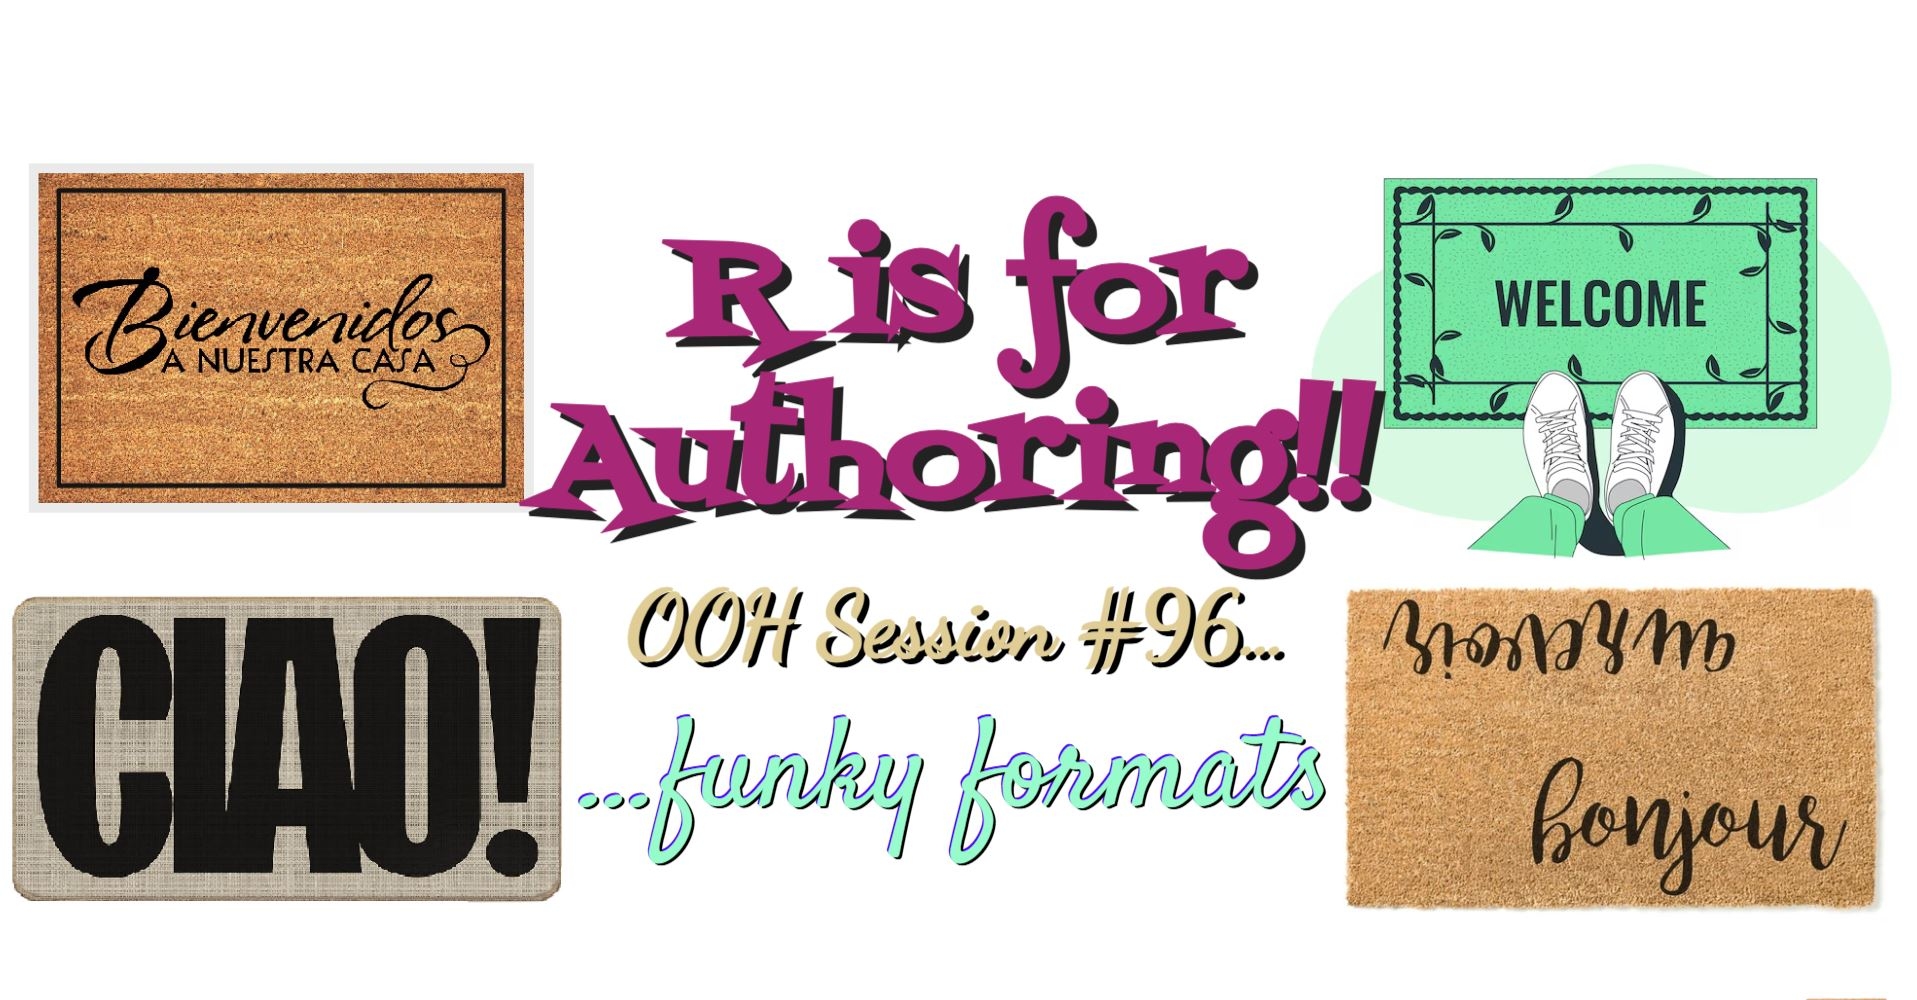
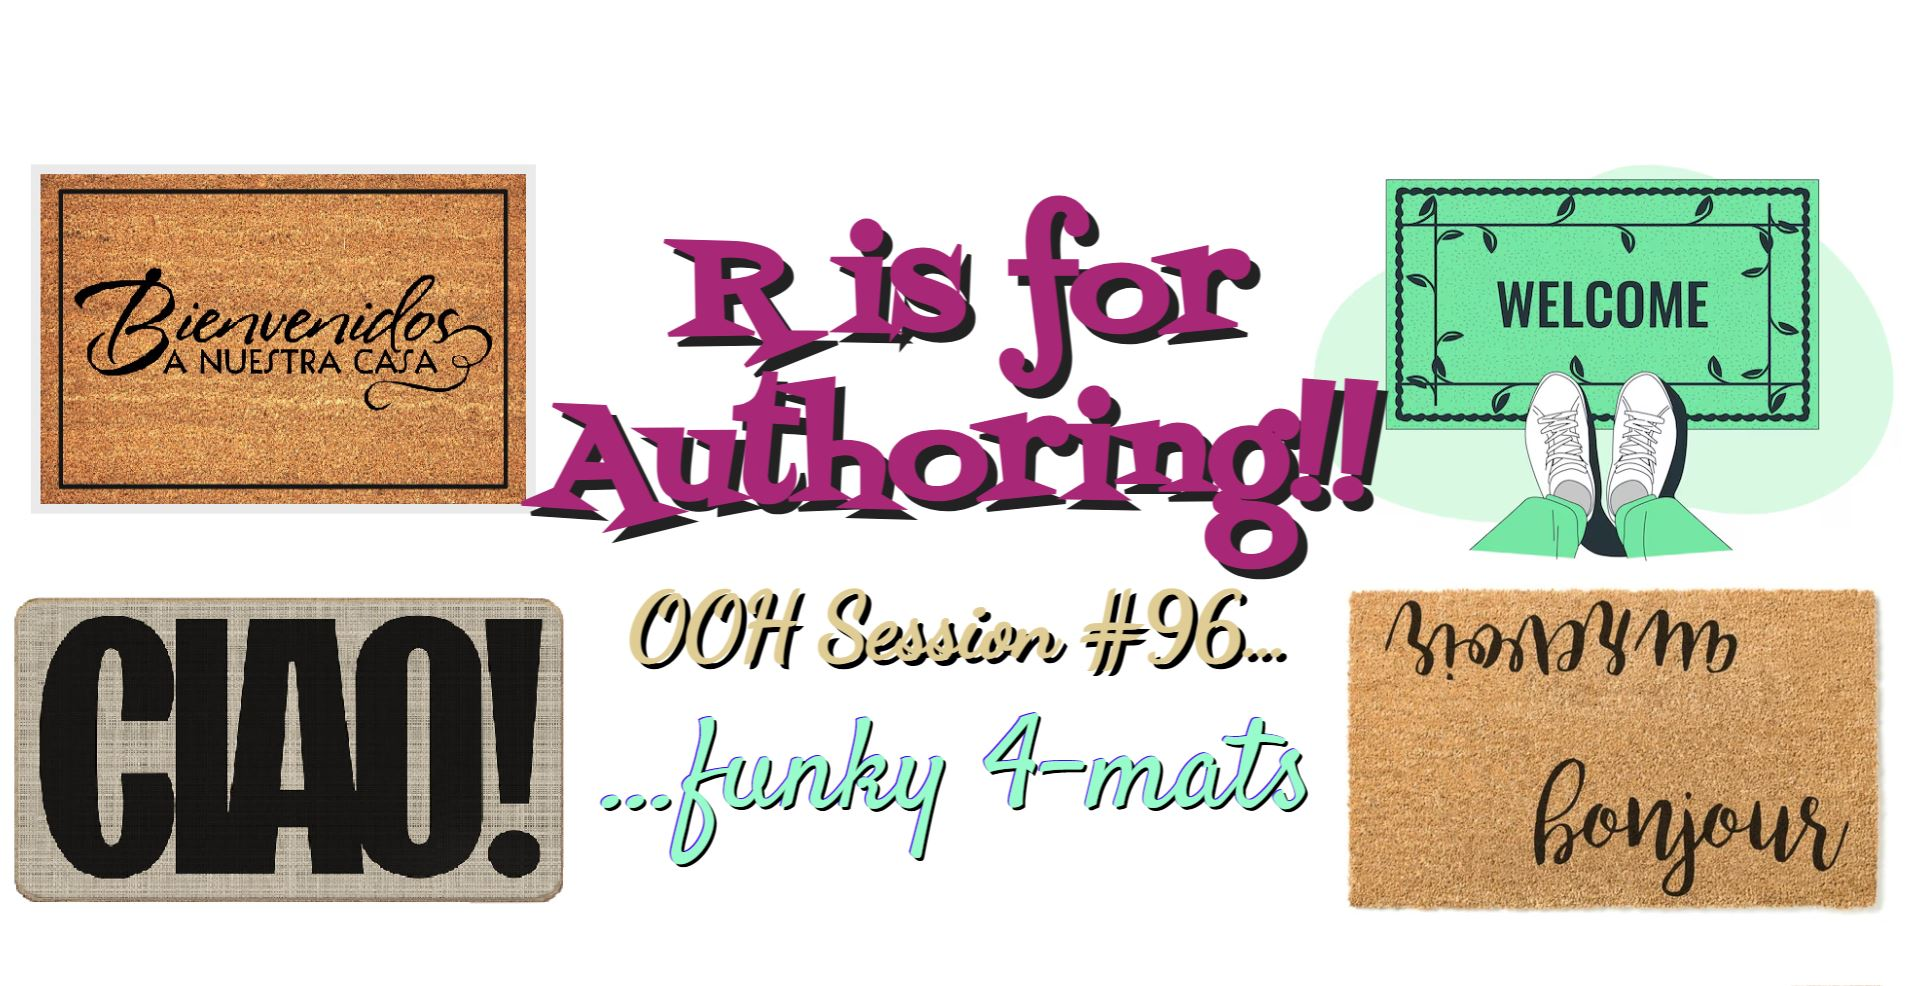
day of updates + slight title slide tweak

Changed region(s): [[0.0, 0.1521, 0.9849, 0.9432]]

diff --git a/9_23_25.html b/9_23_25.html
@@ -13,7 +13,7 @@
 <script src="9_23_25_files/libs/quarto-contrib/iconify-3.0.0/iconify-icon.min.js"></script><meta charset="utf-8">
   <meta name="generator" content="quarto-1.7.30">
 
-  <meta name="author" content="OOH Session #96…  …funky formats">
+  <meta name="author" content="OOH Session #96…  …funky 4–mats">
   <title>R is for  Authoring!!</title>
   <meta name="apple-mobile-web-app-capable" content="yes">
   <meta name="apple-mobile-web-app-status-bar-style" content="black-translucent">
@@ -202,14 +202,14 @@
 <div class="quarto-title-authors">
 <div class="quarto-title-author">
 <div class="quarto-title-author-name">
-OOH Session #96…<br> <span class="funkymats bigger">…funky formats</span> 
+OOH Session #96…<br> <span class="funkymats bigger">…funky 4–mats</span> 
 </div>
 </div>
 </div>
 
 </section>
-<section id="open-office-hours-september-18-2025" class="slide level2">
-<h2>Open Office Hours <br>(September 18, 2025)</h2>
+<section id="open-office-hours-september-23-2025" class="slide level2">
+<h2>Open Office Hours <br>(September 23, 2025)</h2>
 <div class="quarto-layout-panel" data-layout="[90,10]">
 <div class="quarto-layout-row">
 <div class="first-column quarto-layout-cell" style="flex-basis: 90.0%;justify-content: flex-start;">
@@ -267,8 +267,8 @@ OOH Session #96…<br> <span class="funkymats bigger">…funky formats</span>
 <section id="funky-formats" class="slide level2" data-background-image="https://media4.giphy.com/media/v1.Y2lkPTc5MGI3NjExbTJiaHF0NzJqNGNuZm1xaWwzNWJoZG00eHp2enp5aGJieTB1YWxhdSZlcD12MV9pbnRlcm5hbF9naWZfYnlfaWQmY3Q9Zw/W8krmZSDxPIfm/giphy.gif">
 <h2><a href="https://quarto.org/docs/output-formats/all-formats.html"><span class="funkymats bigger">…funky formats</span></a></h2>
 </section>
-<section id="session-info-september-18-2025-rendering" class="slide level2">
-<h2><iconify-icon role="img" inline="" icon="devicon:r" style="font-size: 2em;" aria-label="Icon r from devicon Iconify.design set." title="Icon r from devicon Iconify.design set."></iconify-icon> Session Info (September 18, 2025) Rendering:</h2>
+<section id="session-info-september-23-2025-rendering" class="slide level2">
+<h2><iconify-icon role="img" inline="" icon="devicon:r" style="font-size: 2em;" aria-label="Icon r from devicon Iconify.design set." title="Icon r from devicon Iconify.design set."></iconify-icon> Session Info (September 23, 2025) Rendering:</h2>
 <div class="cell">
 <div class="cell-output cell-output-stdout">
 <pre><code>R version 4.5.0 (2025-04-11 ucrt)
